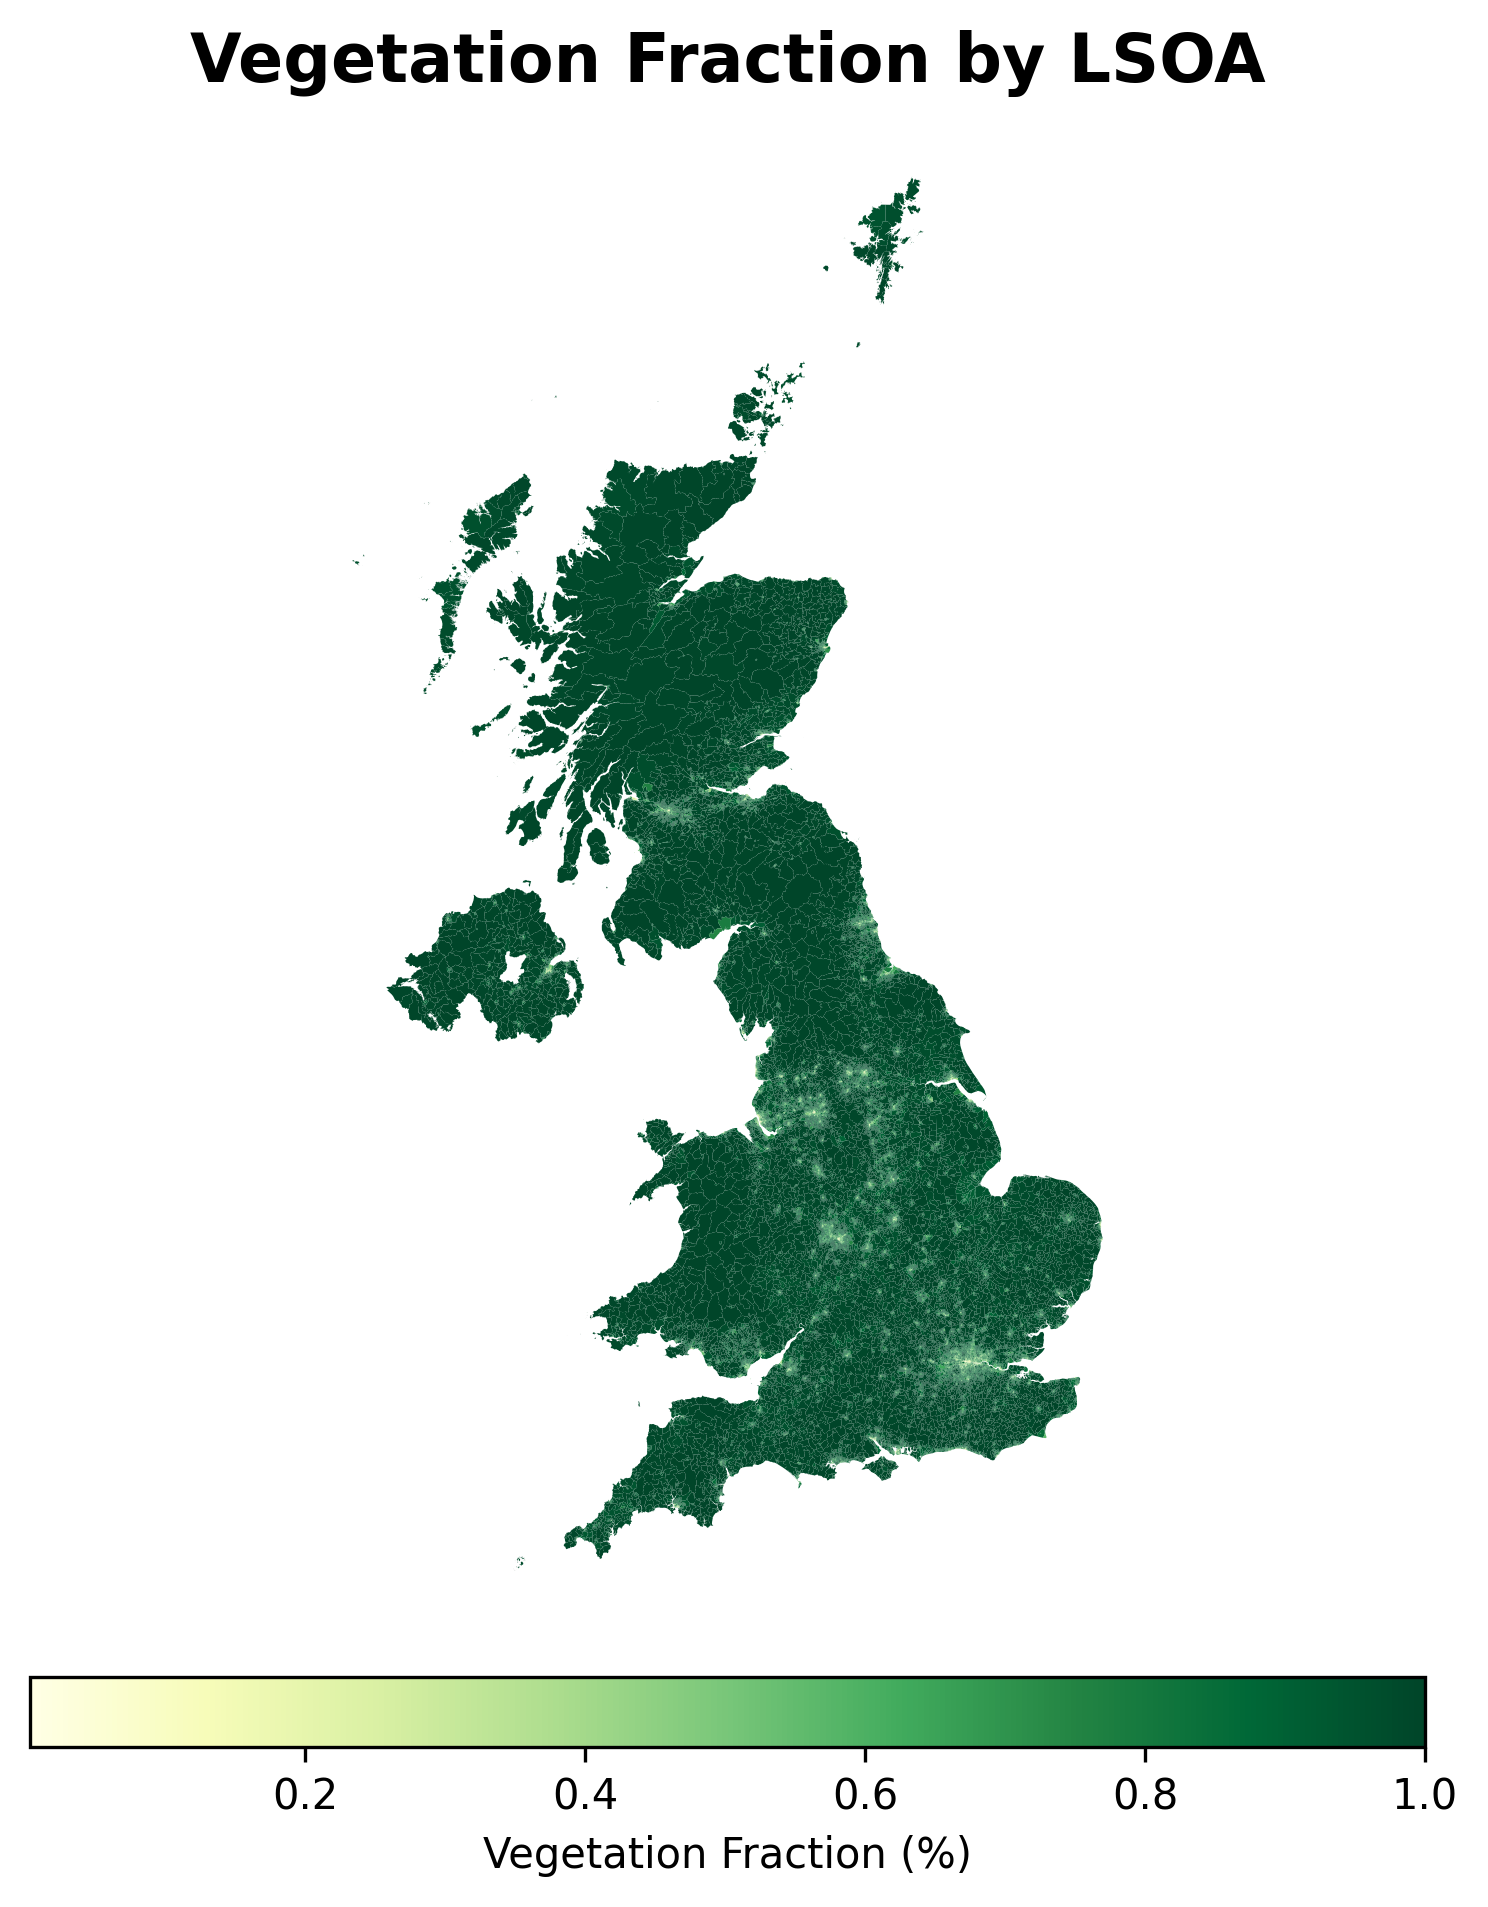
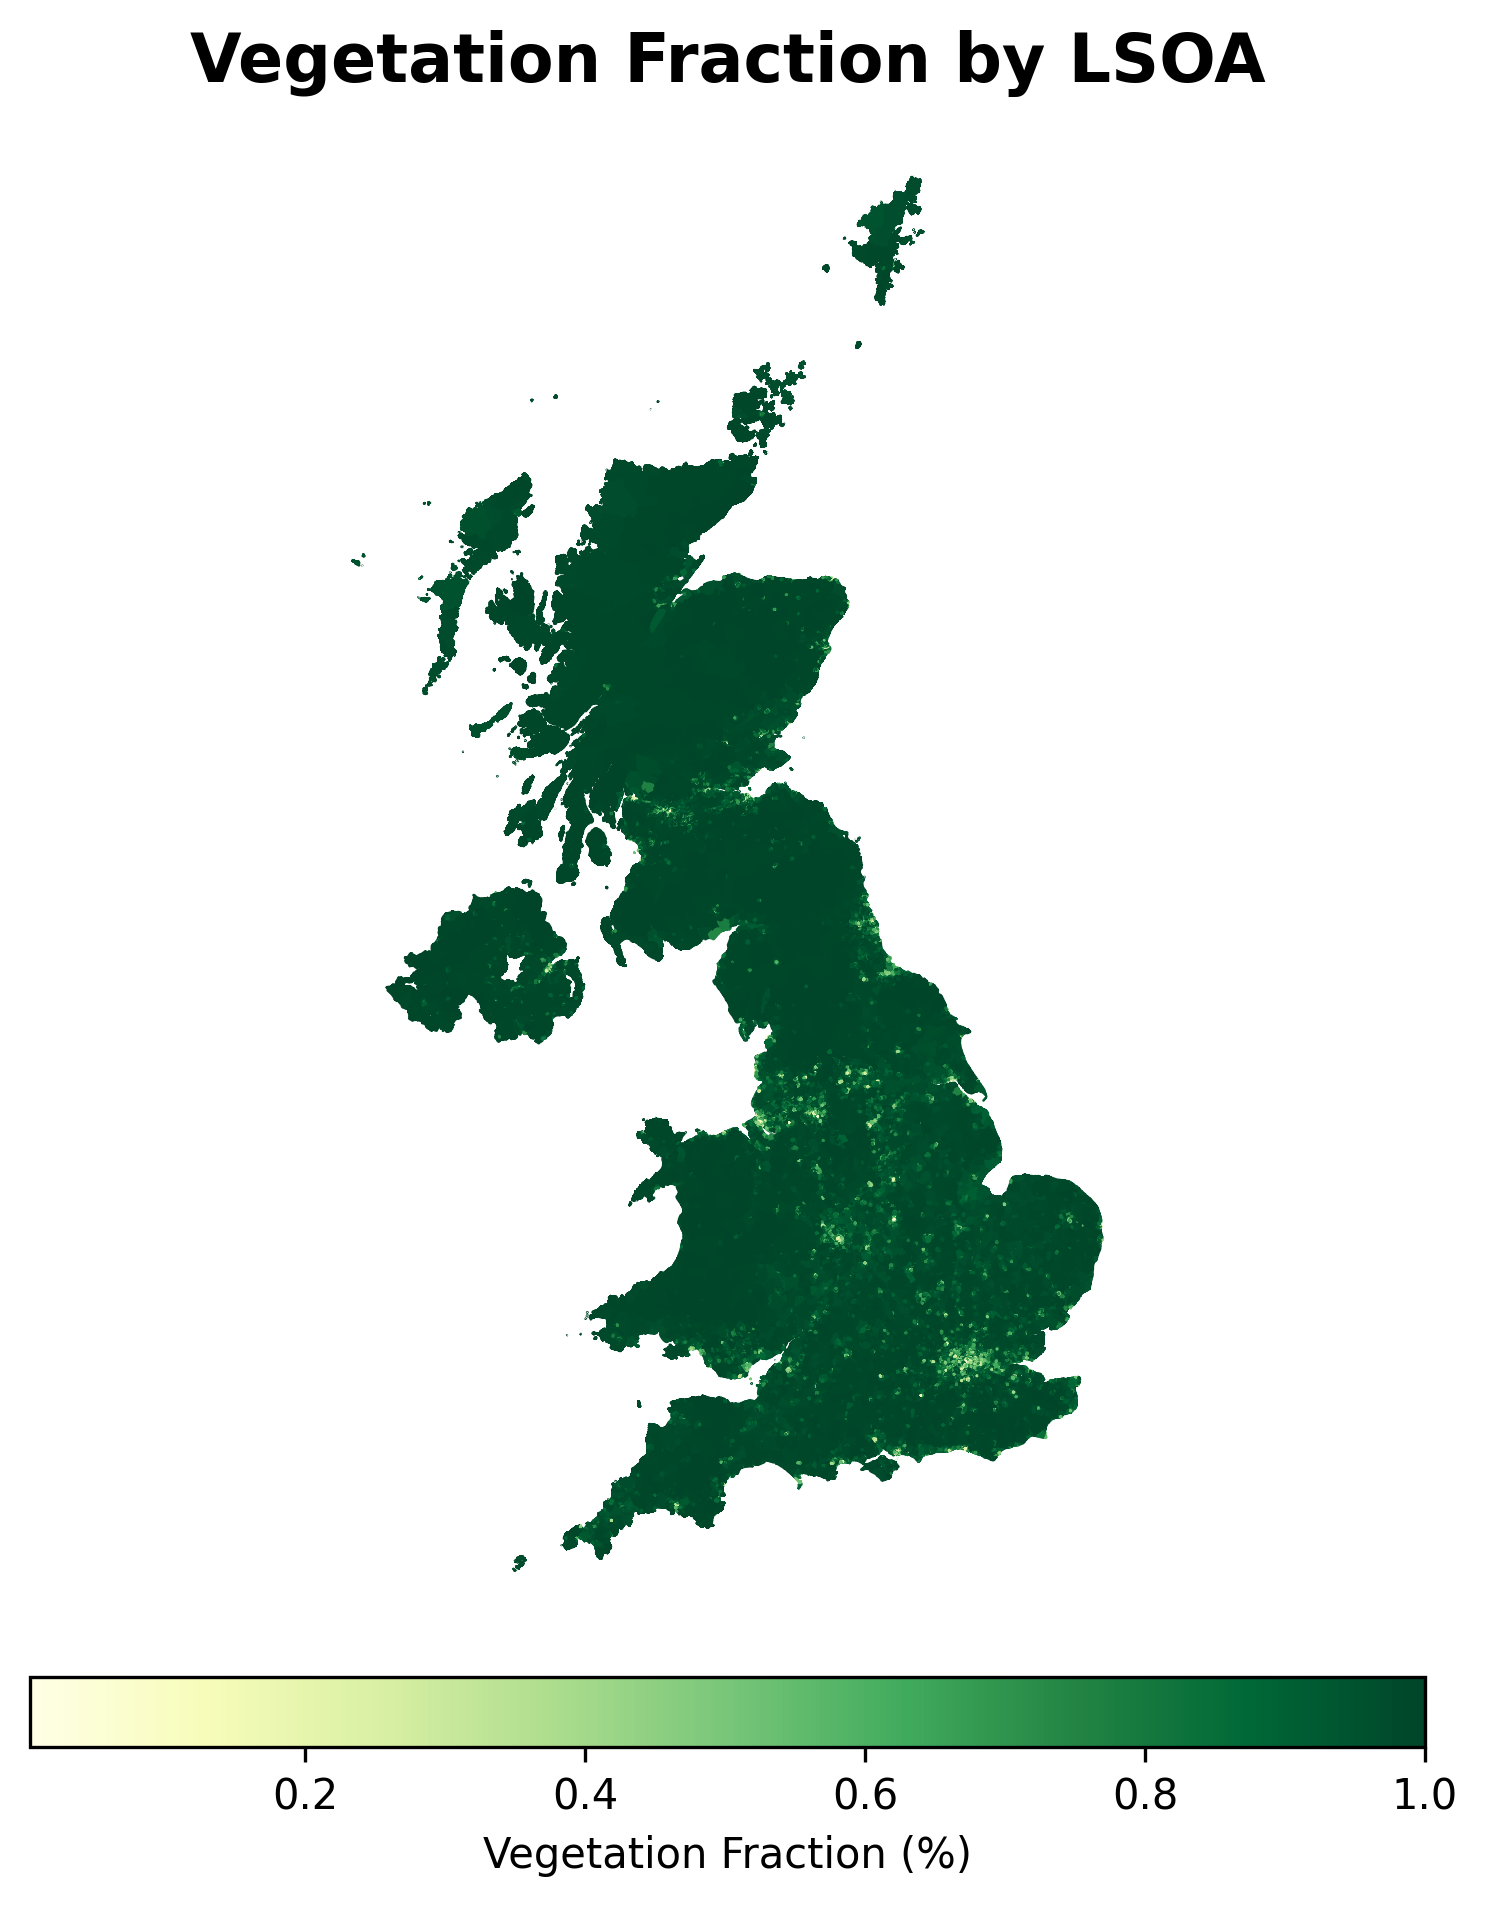
style: adjust demo plot

diff --git a/src/demo.py b/src/demo.py
@@ -2,6 +2,7 @@ import matplotlib.pyplot as plt
 import pandas as pd
 
 from src.main import read_lsoa
+from src.utils import Paths
 
 
 def plot_veg_frac(lsoa_boundaries, df):
@@ -17,6 +18,8 @@ def plot_veg_frac(lsoa_boundaries, df):
     merged_data = lsoa_boundaries.merge(df, on="LSOA21CD")
     plot = merged_data.plot(
         "VEG_FRAC",
+        edgecolor="face",
+        linewidth=0.5,
         ax=ax,
         legend=True,
         cmap=cmap,
@@ -37,6 +40,6 @@ def plot_veg_frac(lsoa_boundaries, df):
 
 if __name__ == "__main__":
     lsoa_boundaries = read_lsoa()
-    df = pd.read_parquet("./gisdata/ndvi.parquet")
+    df = pd.read_parquet(Paths.DATA / "ndvi.parquet")
 
     plot_veg_frac(lsoa_boundaries, df)
